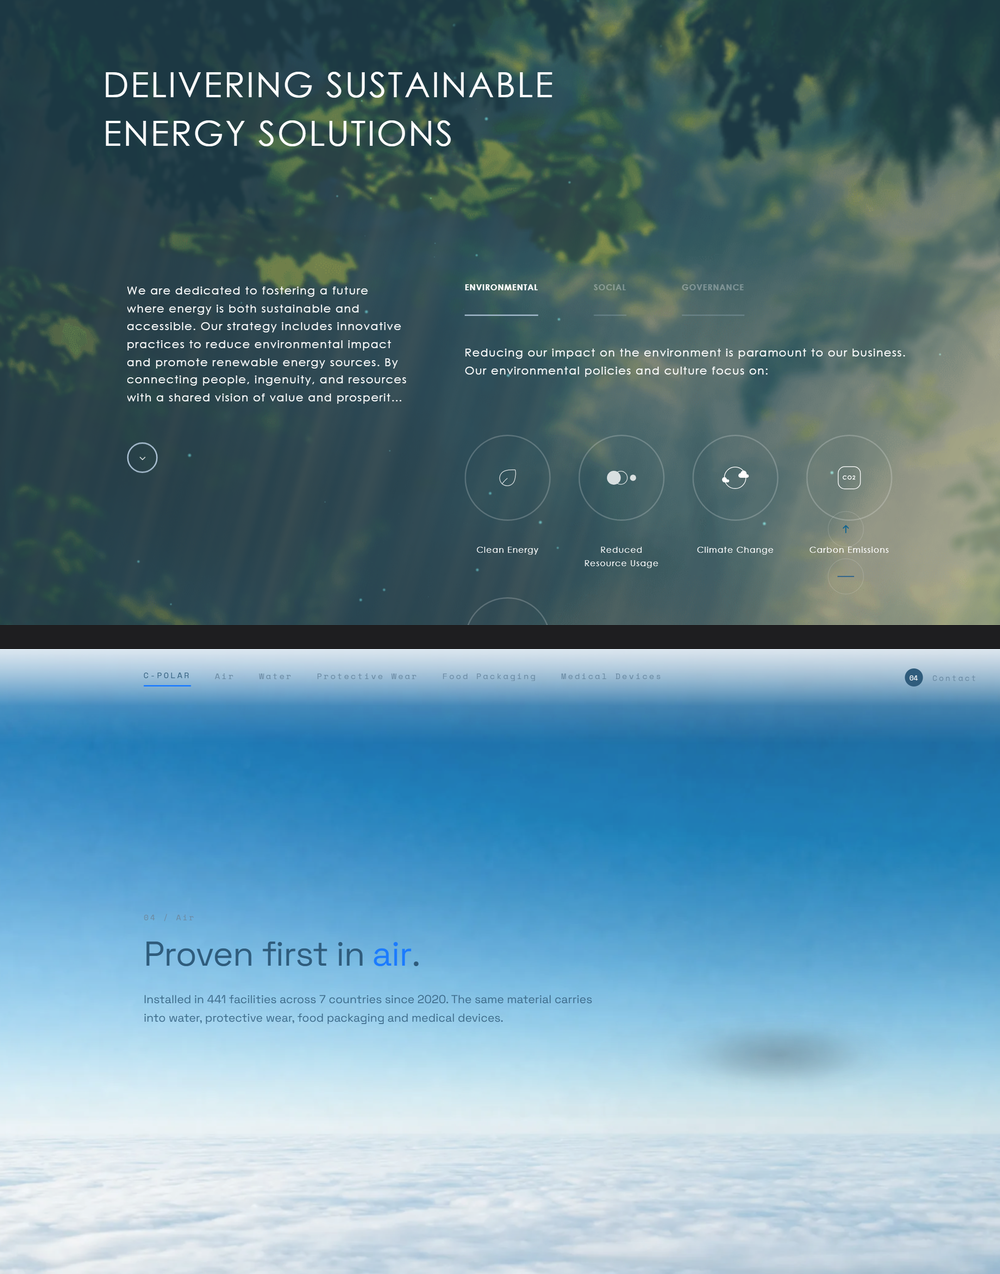
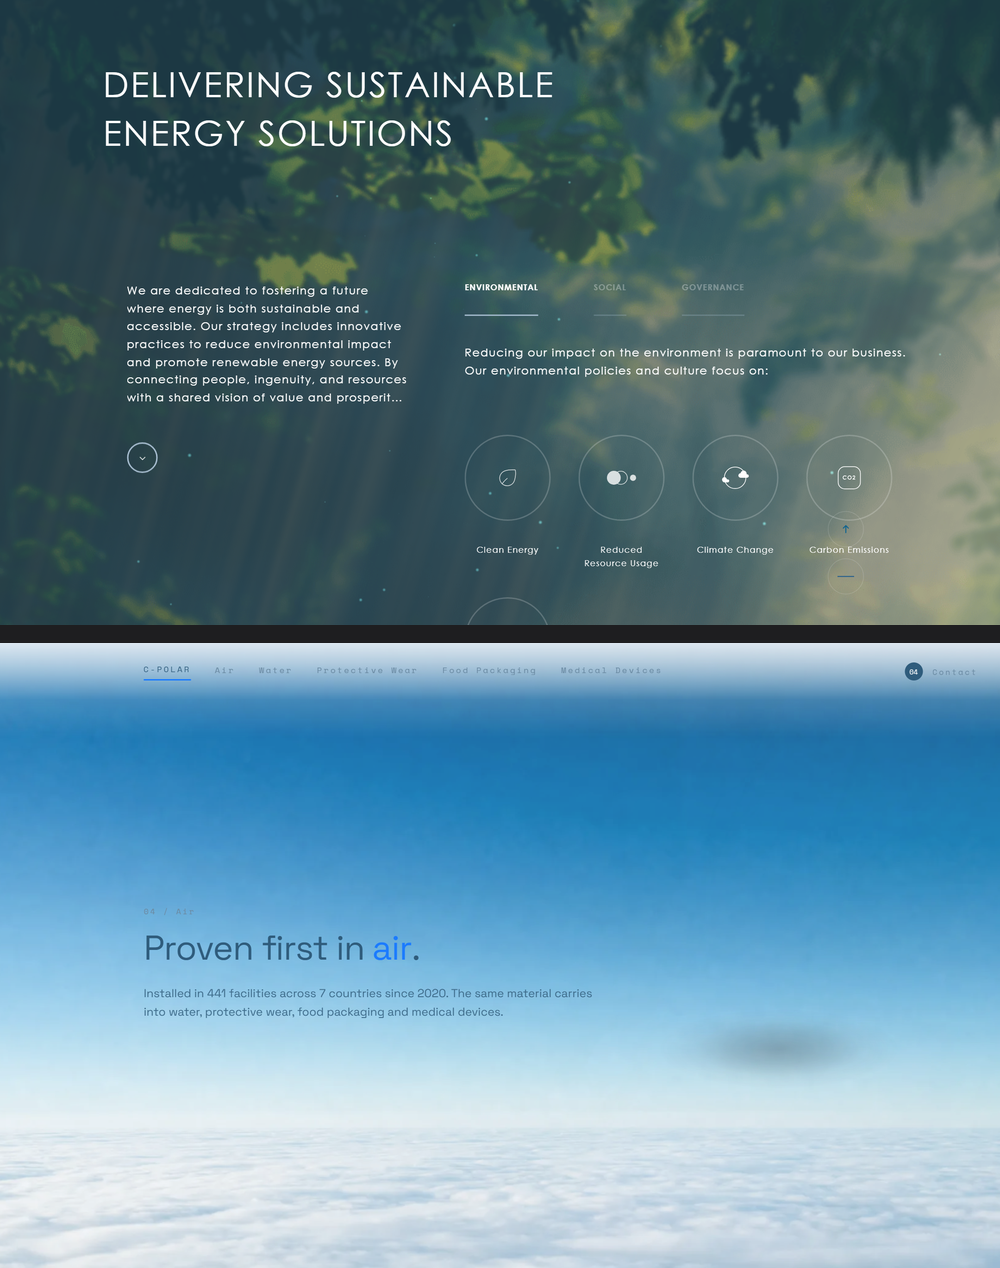
peak-to-particle: chapter 4 gets their density, and the five applications come back
Stacking chapter 4 showed the next obvious gap. Their chapter is a dense
two-column block - a display headline, prose on the left, and on the right a
structured panel with tabs, a paragraph and a labelled row of five marks, using
the full width. Ours was a headline and two lines in a large field of empty blue.

Ours now carries the same structure: prose on columns 4 to 12, and a structured
right-hand panel on columns 15 to 23 listing the five applications - Air, Water,
Protective wear, Food packaging, Medical devices - numbered, on hairline rules, in
the utility face, staged in after the headline and paragraph.

That also repairs something I broke. Yins original brief put the C-POLAR logo,
what C-POLAR is, and the 5 applications on the front page. When the hero was
stripped to the wordmark to match theirs, the five applications were lost. They
now sit where their own structure puts a list like this, in the chapters right
column, rather than crowding the hero.

New and better read of the length problem, recorded in GOAL.md: chapter 4 just
gained real substance WITHOUT gaining a stop. Adding stops measured worse twice.
Density per chapter, not more chapters, is how to close the 19.6-versus-4.4
viewport gap.

diff --git a/peak_to_particle/index.html b/peak_to_particle/index.html
@@ -121,7 +121,7 @@
   /* their in-chapter scale: 14px bold eyebrow, 50px display, 16px body, 12px micro */
   .eyebrow{font-family:var(--util);font-size:11.5px;font-weight:400;letter-spacing:.20em;
     color:var(--muted);margin:0 0 clamp(14px,1.8vh,22px);display:block}
-  .stop h1,.stop h2,.stop p,.stop .mark,.stop .eyebrow,.stop .wordmark{will-change:opacity,transform}
+  .stop h1,.stop h2,.stop p,.stop .mark,.stop .eyebrow,.stop .wordmark,.stop .apps{will-change:opacity,transform}
   /* Words ride up from behind their own edge. A block that simply fades in reads as a slide;
      a masked reveal reads as type being set. This is the reference's signature move. */
   .w{display:inline-block;overflow:hidden;vertical-align:bottom;padding:0 0 .06em}
@@ -130,6 +130,18 @@
   #c2{top:0;bottom:auto}
   /* the specimen runs into this column at full width, so this chapter takes a shorter measure */
   #c2 .col{grid-column:4 / span 9}
+  #c4 .col{grid-column:4 / span 9}
+  /* the structured right-hand block their chapters carry, holding the five applications */
+  .apps{grid-column:15 / span 9;align-self:end}
+  .apps-label{font-family:var(--util);font-size:11.5px;letter-spacing:.20em;color:var(--muted);
+    display:block;margin:0 0 14px}
+  .apps ol{list-style:none;margin:0;padding:0}
+  .apps li{display:flex;align-items:baseline;gap:14px;padding:11px 0;
+    border-top:1px solid rgba(120,150,175,.30);
+    font-size:clamp(14px,1.05vw,16px);color:var(--ink)}
+  .apps li:last-child{border-bottom:1px solid rgba(120,150,175,.30)}
+  .apps li span{font-family:var(--util);font-size:10.5px;letter-spacing:.14em;color:var(--muted)}
+  @media (max-width:900px){ .apps{grid-column:1 / -1;margin-top:28px} }
   #c3{top:0;bottom:auto}
   #c4{top:52%;transform:translateY(-50%)}
   .mark{margin:0 0 clamp(14px,2vh,26px)}
@@ -229,7 +241,18 @@
   <h2>Proven first in <em>air</em>.</h2>
   <p>Installed in 441 facilities across 7 countries since 2020. The same material carries
      into water, protective wear, food packaging and medical devices.</p>
-  </div></div>
+    </div>
+  <aside class="apps">
+    <span class="apps-label">Five applications</span>
+    <ol>
+      <li><span>01</span> Air</li>
+      <li><span>02</span> Water</li>
+      <li><span>03</span> Protective wear</li>
+      <li><span>04</span> Food packaging</li>
+      <li><span>05</span> Medical devices</li>
+    </ol>
+  </aside>
+</div>
 </section>
 
 <span class="cue" id="cue">Scroll down &mdash; summit to a single particle</span>
@@ -365,6 +388,10 @@ function copyState(node, v, centred){
   var t = 'translateY(' + v.dy.toFixed(1) + 'px)';
   node.style.transform = centred ? 'translateY(-50%) ' + t : t;
   var head = node.querySelector('h1,h2'), body = node.querySelector('p'), mark = node.querySelector('.mark'), eyeb = node.querySelector('.eyebrow');
+  var apps = node.querySelector('.apps');
+  if(apps){ var ao = clamp((v.o - 0.34)/0.66, 0, 1);
+            apps.style.opacity = ao;
+            apps.style.transform = 'translateY(' + ((1-ao)*22).toFixed(1) + 'px)'; }
   var word = node.querySelector('.wordmark');
   if(word){ var wo = clamp(v.o*1.4,0,1);
             word.style.opacity = wo;

diff --git a/peak_to_particle/GOAL.md b/peak_to_particle/GOAL.md
@@ -333,6 +333,23 @@ collision that no measurement had ever caught. Chapter 2 now takes a shorter mea
 **The lesson, again:** stacking their screen above ours at the same size found in one minute
 what eleven passes of scoring never surfaced. It is the cheapest instrument here.
 
+## CHAPTER 4 GETS THEIR DENSITY — and the five applications come back
+Stacking chapter 4 (`vs_c4.png`) showed the next obvious gap. **Their chapter is a dense
+two-column block**: a display headline, prose on the left, and on the right a structured panel —
+tabs, a paragraph, a labelled row of five marks — using the full width. **Ours was a headline and
+two lines in a large field of empty blue.**
+
+Ours now carries the same structure: prose on columns 4–12, and a **structured right-hand panel
+on columns 15–23 listing the five applications** — Air, Water, Protective wear, Food packaging,
+Medical devices — numbered, on hairline rules, in the utility face.
+
+**That also repairs something I broke.** Yin's original brief put "the C-POLAR logo, what C-POLAR
+is, and the 5 applications" on the front page. When the hero was stripped to the wordmark to
+match theirs, the five applications were lost. They now live where their own structure puts a
+list like this — in the chapter's right column — rather than crowding the hero.
+
+The panel is staged like the rest of the copy: it arrives after the headline and paragraph.
+
 ## The rules
 1. **Do not stop until every screen is >= 9/10.** Keep iterating, session after session.
 2. **Codex is the judge.** Its number is the number. Never my own opinion.
@@ -858,19 +875,20 @@ layout or length was flat or negative. And the only fidelity lever left is the o
 pull ourselves.
 
 ## NEXT ACTION
-1. **Keep stacking.** `vs_c2/c3/c4.png` are in this folder; regenerate them after every change
-   and fix whatever is obvious. That loop is now the primary method — the /10 gate is void and
-   measurement missed the dark/light register entirely.
-2. **Their page is 19.6 viewports; ours is 4.4.** Still the largest structural difference, and
-   still gated on the fact that adding stops measured worse twice. Length only helps if every
-   chapter carries an event.
-3. **Yin's two decisions**, unchanged: what "done" means now the 9/10 bar is void, and whether
-   we may license real imagery.
-4. **Scroll FPS** diagnosed, not fixable against this machine's meter — one look on real
-   hardware settles it.
+1. **Keep stacking — chapters 2 and 3 are next.** `vs_c2.png` and `vs_c3.png` are regenerated in
+   this folder. Chapter 4 was the thinnest and is now fixed; 2 and 3 still carry only a headline
+   and a paragraph against a full-bleed plate, where theirs carry a structured second element.
+   Candidates already in the project: the four studies behind the capture claim, or the loading
+   sequence, as a right-hand panel in the same form as the applications list.
+2. **Their page is 19.6 viewports; ours is 4.4.** Adding stops measured worse twice — but note
+   that chapter 4 just gained substance *without* gaining a stop. **Density per chapter, not more
+   chapters, is the way to close that gap.** That is a new and better read of the length problem.
+3. **Yin's two decisions**, unchanged: what "done" means now the 9/10 bar is void, and whether we
+   may license real imagery.
+4. **Scroll FPS** diagnosed, not fixable against this machine's meter.
 
-**Do not** retry: the WebGL specimen, more stops without events, seam or collision work, the
-hero plate or crop, charge symbols, the mat video, the hero-zoom-to-still swap.
+**Do not** retry: the WebGL specimen, more stops without events, seam or collision work, the hero
+plate or crop, charge symbols, the mat video, the hero-zoom-to-still swap.
 
 ## Where things are
 - Work dir: `C:\EPA\US\website_project\peak_to_particle\` (NOT a git repo — edit here)
